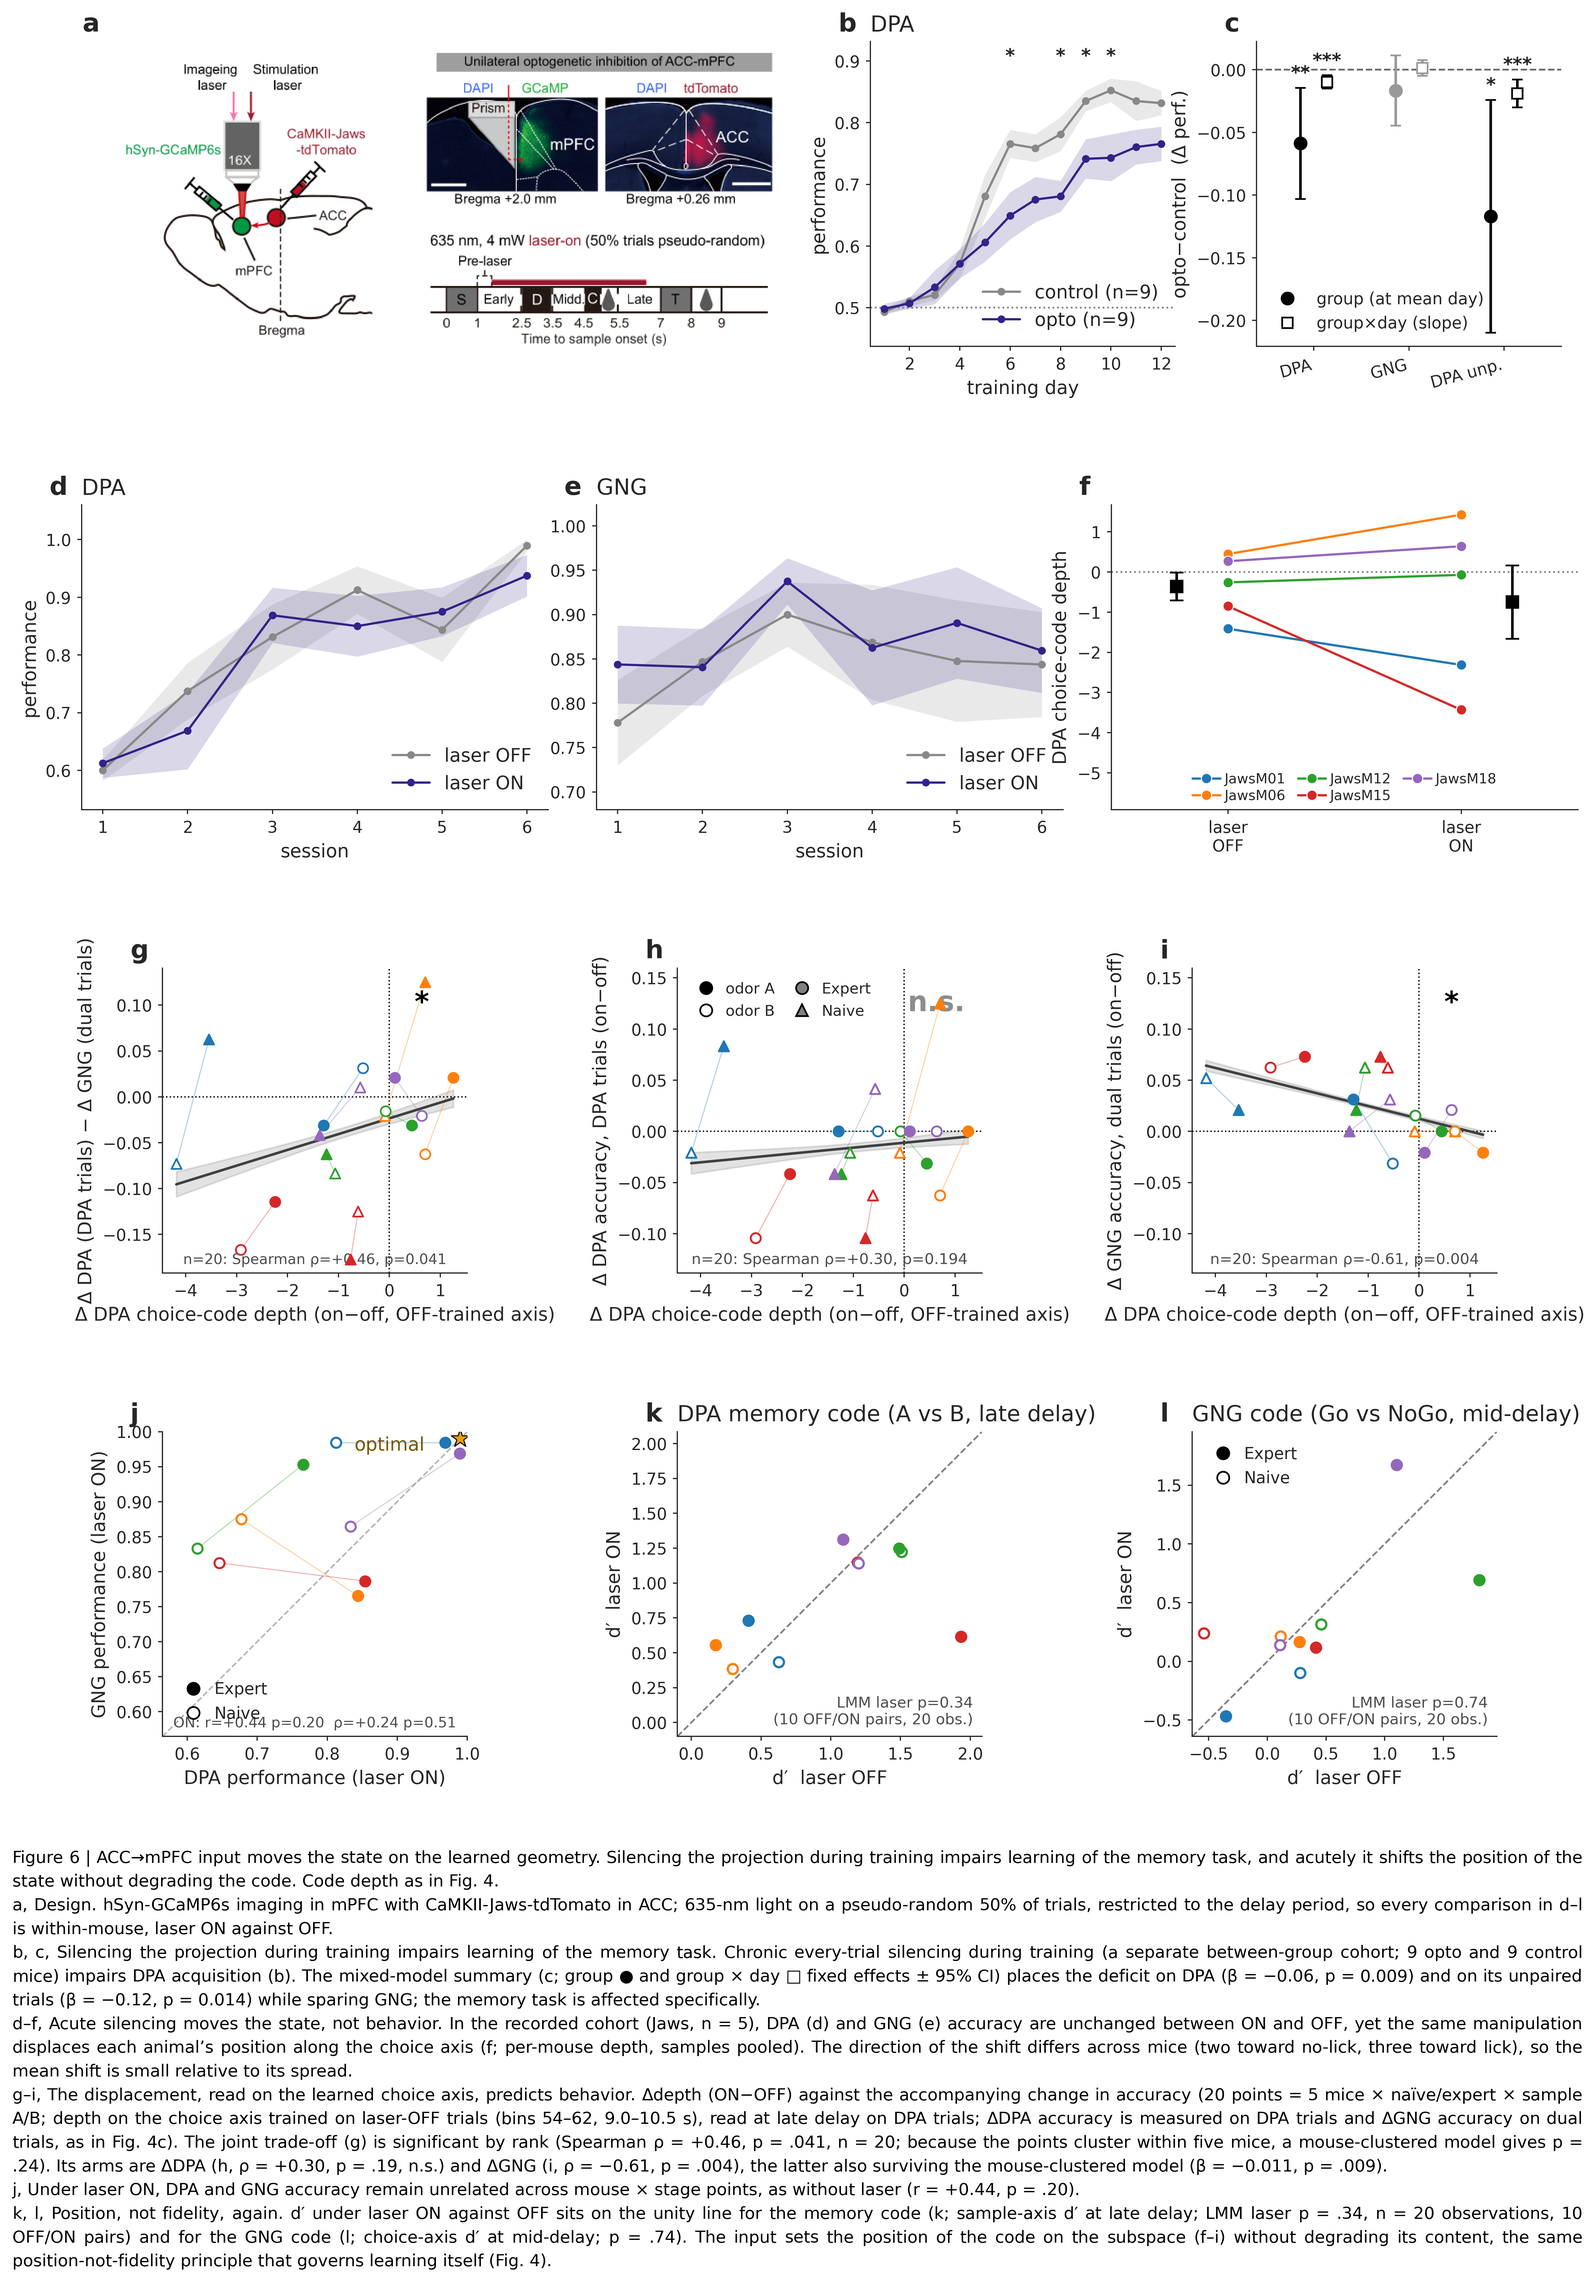
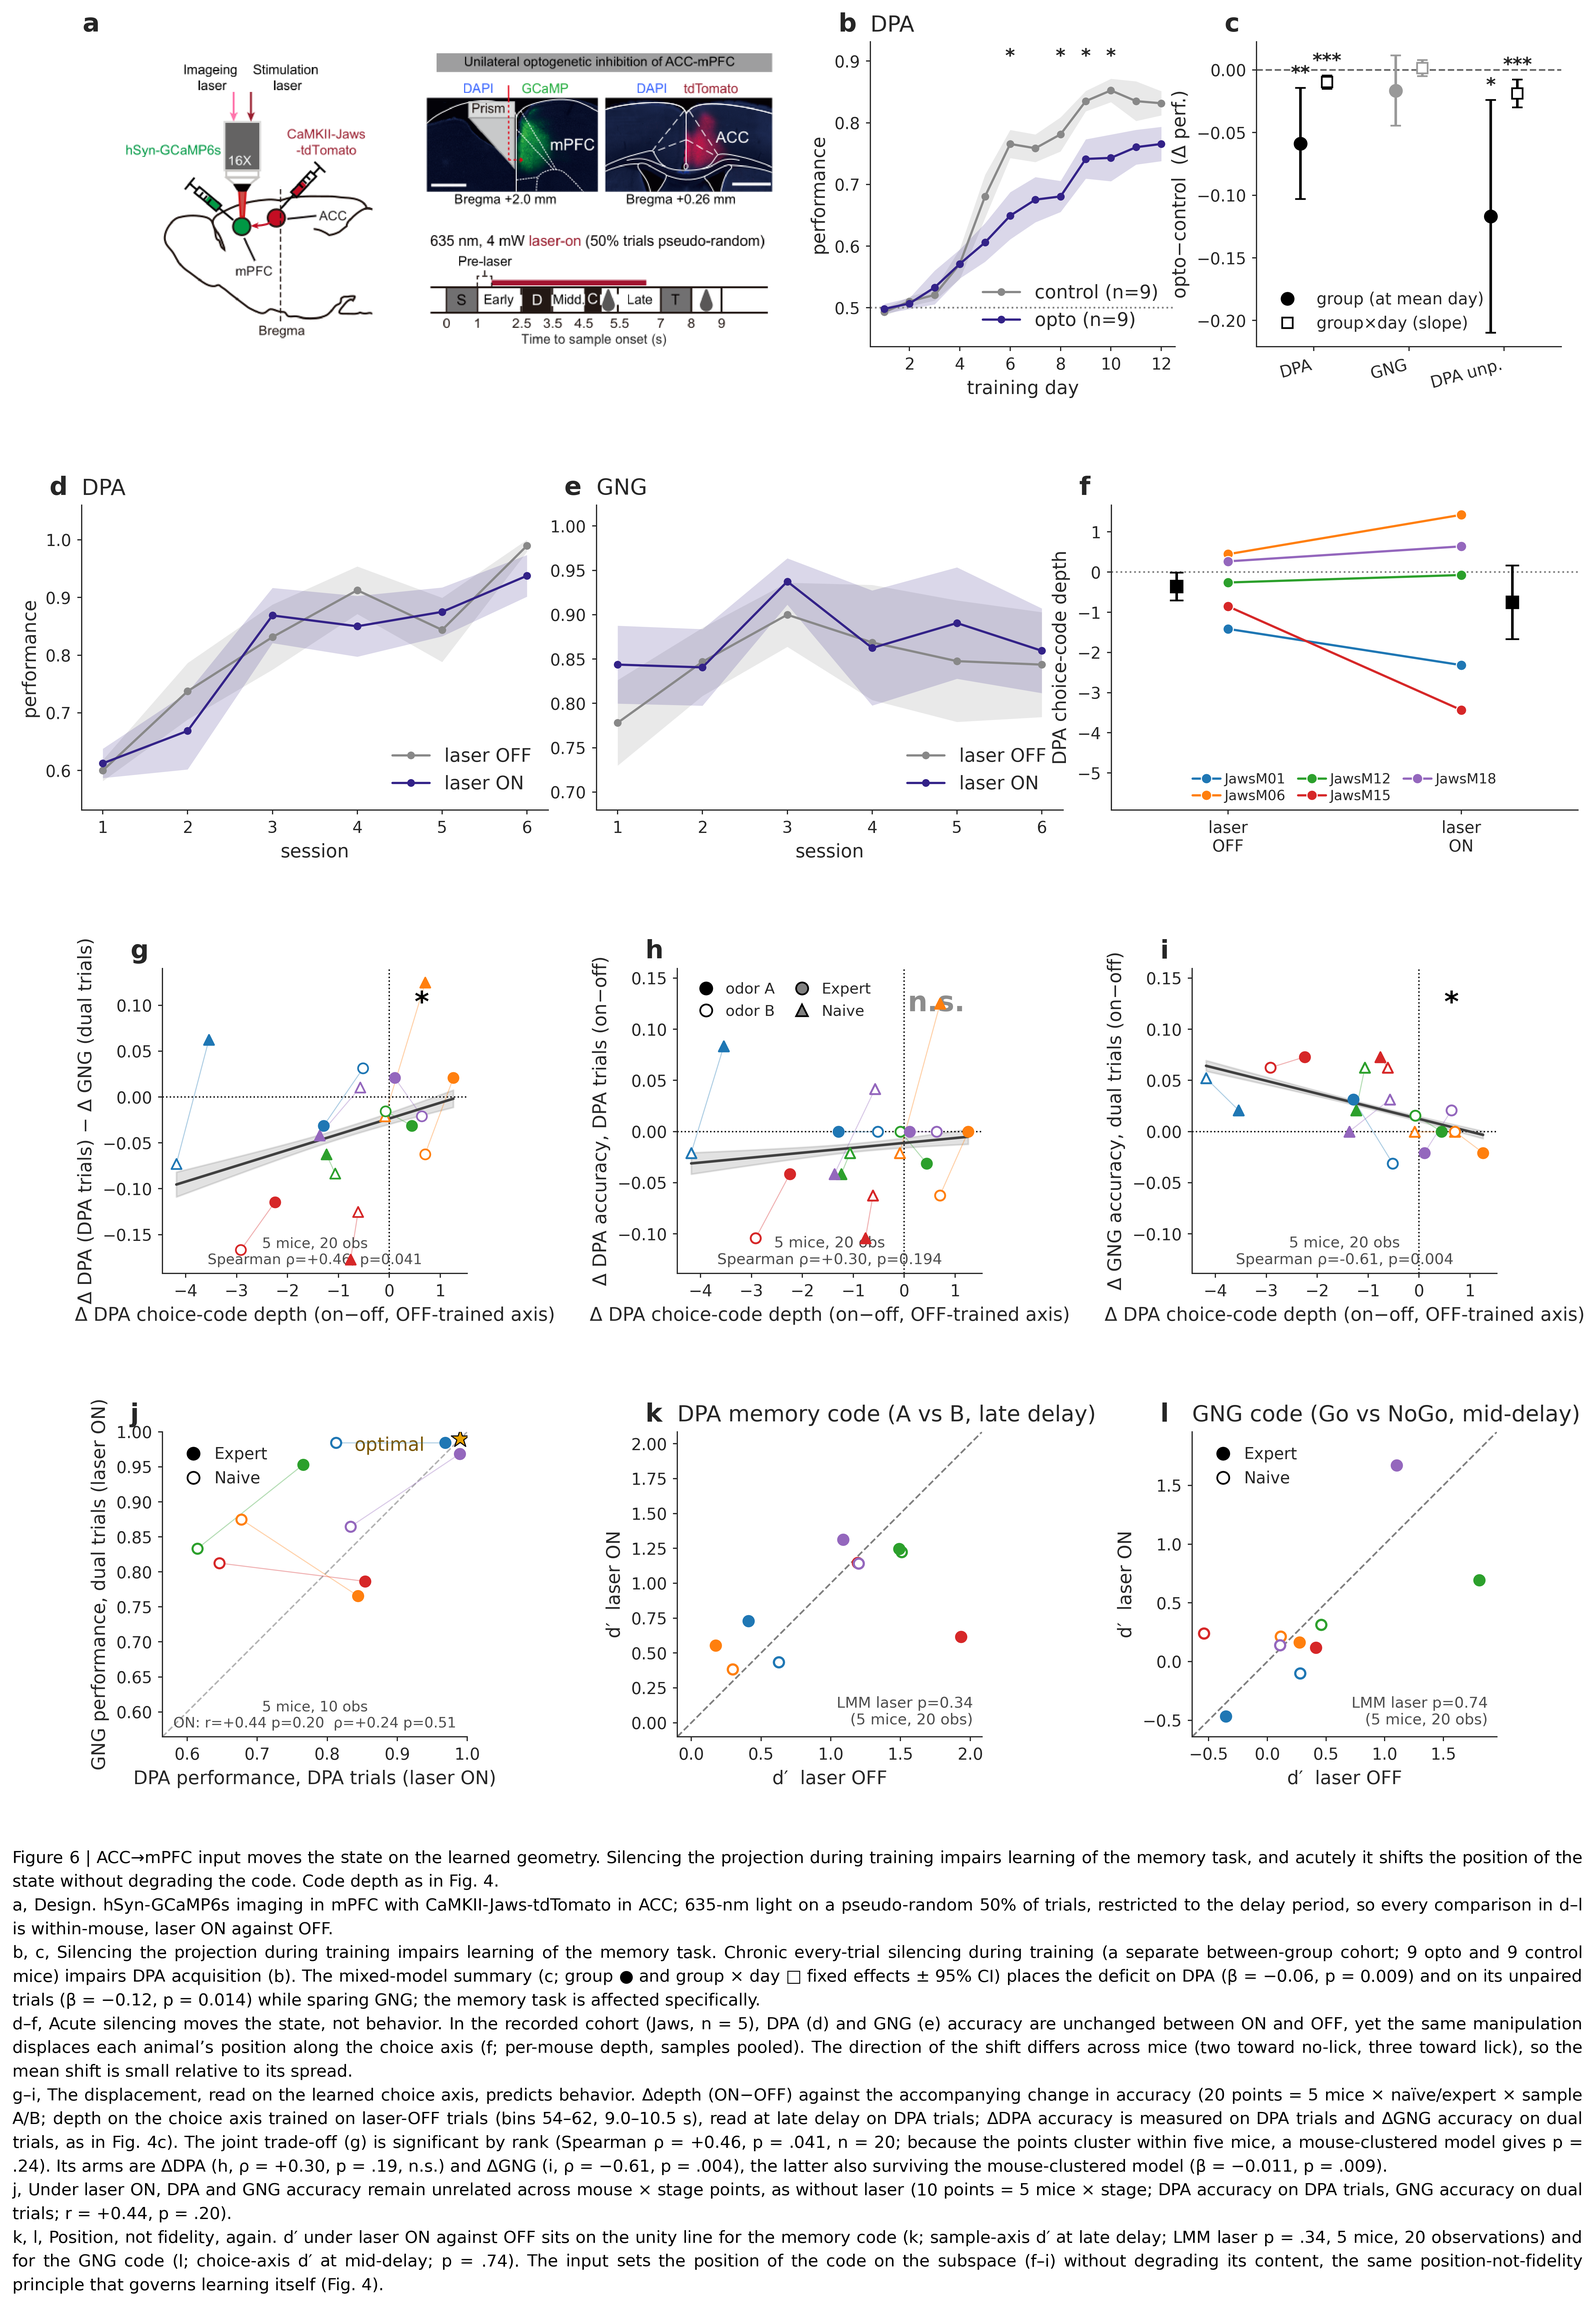
Fig 6 j: name its trial sets; one n-annotation shape across Figs 4 and 6
Panel j is 10 points (5 Jaws mice x 2 stages), laser-ON trials only: DPA performance on DPA trials
against GNG performance on dual trials. Labels and caption say so, and its legend moved to upper left
to clear the now two-line stat block.

n annotations use one shape everywhere: name the unit, add the observations only when the points are
nested in mice — '9 mice' (Fig 4c, retiring 'per-mouse (n=9)'), '5 mice, 20 obs' (Fig 6 g-i), '5 mice,
10 obs' (Fig 6 j), '(5 mice, 20 obs)' under the LMM p in Fig 6 k/l (retiring '10 OFF/ON pairs, 20 obs.'),
and 'mixed model (9 mice, 36 obs)' unchanged in Fig 4b. The k/l legend wording follows in the draft.
No statistic changed. Figs 4 and 6 re-rendered and re-exported; artifacts republished.

Claude-Session: https://claude.ai/code/session_01PzGzWMKHPqqyp4poHedntF

diff --git a/overlaps/fig_behavior_opto_main.py b/overlaps/fig_behavior_opto_main.py
@@ -673,7 +673,7 @@ for ax, key, ylab, msg in [
     r_p, p_p = pearsonr(xdep[ok], yv[ok]); rho, ps = spearmanr(xdep[ok], yv[ok])
     _b, _p, _nm, _no = _gi_lmm(key)                 # mouse-respecting LMM — logged caveat, NOT drawn
     print(f'  {key}: corr r={r_p:+.2f} p={p_p:.3f} ρ={rho:+.2f} p={ps:.3f}  |  LMM β={_b:+.3f} p={_p:.3f} ({_nm}m {_no}obs)')
-    ax.text(0.5, 0.02, f'n={ok.sum()}: Spearman ρ={rho:+.2f}, p={ps:.3f}',   # Spearman only (Leon 2026-09-08)
+    ax.text(0.5, 0.02, f'{len(JAWS)} mice, {ok.sum()} obs\nSpearman ρ={rho:+.2f}, p={ps:.3f}',   # Spearman only; unit named as in Fig 4 (Leon)
             transform=ax.transAxes, ha='center', va='bottom', fontsize=PS*6.5, color='0.3')
     ax.text(0.85, 0.93, '*' if ps < 0.05 else 'n.s.', transform=ax.transAxes, ha='center',        # verdict = Spearman (Leon 2026-09-08); clustered model in the legend
             va='top', fontsize=PS*12, fontweight='bold', color='k' if ps < 0.05 else '0.55')
@@ -771,7 +771,7 @@ _ok = ~(np.isnan(_xdep) | np.isnan(_ytr))
 _rp, _pp = pearsonr(_xdep[_ok], _ytr[_ok]); _rs, _ps = spearmanr(_xdep[_ok], _ytr[_ok])
 _gb, _gp, _gnm, _gno = _gi_lmm('trade')          # mouse-respecting LMM — logged caveat, NOT drawn
 print(f'  trade-off: corr r={_rp:+.2f} p={_pp:.3f} ρ={_rs:+.2f} p={_ps:.3f}  |  LMM β={_gb:+.3f} p={_gp:.3f} ({_gnm}m {_gno}obs)')
-axL.text(0.5, 0.02, f'n={_ok.sum()}: Spearman ρ={_rs:+.2f}, p={_ps:.3f}',   # Spearman only (Leon 2026-09-08)
+axL.text(0.5, 0.02, f'{len(JAWS)} mice, {_ok.sum()} obs\nSpearman ρ={_rs:+.2f}, p={_ps:.3f}',   # Spearman only; unit named as in Fig 4 (Leon)
          transform=axL.transAxes, ha='center', va='bottom', fontsize=PS*6.2, color='0.3')
 axL.text(0.85, 0.93, '*' if _ps < 0.05 else 'n.s.', transform=axL.transAxes, ha='center',        # verdict = Spearman (Leon 2026-09-08); clustered model in the legend
          va='top', fontsize=PS*12, fontweight='bold', color='k' if _ps < 0.05 else '0.55')
@@ -794,7 +794,7 @@ def _dprime_scatter(ax, dfw, lmm, title):
     ax.set_xlim(lo, hi); ax.set_ylim(lo, hi); ax.set_box_aspect(1)
     ax.set_xlabel("d′  laser OFF"); ax.set_ylabel("d′  laser ON")
     ax.set_title(title, loc='left', fontsize=TITLE_FS)
-    ax.text(0.97, 0.03, f'LMM laser p={lmm[1]:.2f}\n(10 OFF/ON pairs, 20 obs.)', transform=ax.transAxes,
+    ax.text(0.97, 0.03, f'LMM laser p={lmm[1]:.2f}\n({len(JAWS)} mice, {2 * len(dfw)} obs)', transform=ax.transAxes,
             ha='right', va='bottom', fontsize=PS*6.5, color='0.3')
 
 
@@ -835,13 +835,14 @@ if not POSTER:
         fc = MOUSE_COLOR[m] if st == 'Expert' else 'w'       # Expert filled / Naive open
         axBal.scatter(xd, yd, marker='o', s=34, facecolors=fc, edgecolors=MOUSE_COLOR[m], lw=1.2, zorder=5)
     _brp, _bpp = pearsonr(_bx[_bok], _by[_bok]); _brs, _bps = spearmanr(_bx[_bok], _by[_bok])
-    axBal.text(0.5, 0.02, f'ON: r={_brp:+.2f} p={_bpp:.2f}  ρ={_brs:+.2f} p={_bps:.2f}',
+    axBal.text(0.5, 0.02, f'{len(JAWS)} mice, {int(_bok.sum())} obs\nON: r={_brp:+.2f} p={_bpp:.2f}  ρ={_brs:+.2f} p={_bps:.2f}',
                transform=axBal.transAxes, ha='center', va='bottom', fontsize=PS*6.2, color='0.3')
     axBal.set_xlim(_blim); axBal.set_ylim(_blim); axBal.set_box_aspect(1)
-    axBal.set_xlabel('DPA performance (laser ON)'); axBal.set_ylabel('GNG performance (laser ON)')
+    axBal.set_xlabel('DPA performance, DPA trials (laser ON)')      # trial sets named as in g–i (Leon 2026-09-09)
+    axBal.set_ylabel('GNG performance, dual trials (laser ON)')
     axBal.legend(handles=[mlines.Line2D([0], [0], marker='o', color='k', mfc='k', ls='none', ms=7, label='Expert'),
                           mlines.Line2D([0], [0], marker='o', color='k', mfc='w', ls='none', ms=7, label='Naive')],
-                 frameon=False, fontsize=PS*7, loc='lower left', handletextpad=0.3)
+                 frameon=False, fontsize=PS*7, loc='upper left', handletextpad=0.3)   # clear of the 2-line stat block
 
 
 # ── panel letters + row banners ───────────────────────────────────────────────
@@ -890,10 +891,11 @@ if not POSTER:
         '(Spearman ρ = +0.46, p = .041, n = 20; because the points cluster within five mice, a mouse-clustered model gives p = .24). '
         'Its arms are ΔDPA (h, ρ = +0.30, p = .19, n.s.) and ΔGNG (i, ρ = −0.61, p = .004), the latter also surviving the mouse-clustered model '
         '(β = −0.011, p = .009).',
-        'j, Under laser ON, DPA and GNG accuracy remain unrelated across mouse × stage points, as without laser (r = +0.44, p = .20).',
+        'j, Under laser ON, DPA and GNG accuracy remain unrelated across mouse × stage points, as without laser '
+        '(10 points = 5 mice × stage; DPA accuracy on DPA trials, GNG accuracy on dual trials; r = +0.44, p = .20).',
         'k, l, Position, not fidelity, again. d′ under laser ON against OFF sits on the unity line '
-        'for the memory code (k; sample-axis d′ at late delay; LMM laser p = .34, n = 20 '
-        'observations, 10 OFF/ON pairs) and for the GNG code (l; choice-axis d′ at mid-delay; p = .74). The input sets '
+        'for the memory code (k; sample-axis d′ at late delay; LMM laser p = .34, 5 mice, 20 '
+        'observations) and for the GNG code (l; choice-axis d′ at mid-delay; p = .74). The input sets '
         'the position of the code on the subspace (f–i) without degrading its content, the same '
         'position-not-fidelity principle that governs learning itself (Fig. 4).',
     ]

diff --git a/overlaps/fig_overlaps_main_native.py b/overlaps/fig_overlaps_main_native.py
@@ -260,7 +260,7 @@ if __name__ == '__main__':
         ax.axhline(0, ls=':', color='k', lw=0.7); ax.axvline(0, ls=':', color='k', lw=0.7)
         ax.set_ylim(ylimC)
         sig = pv < 0.05
-        ax.text(0.03, 0.03, f'per-mouse (n={n_mice})\nSpearman ρ={rho:+.2f}, p={pv:.3f}',
+        ax.text(0.03, 0.03, f'{n_mice} mice\nSpearman ρ={rho:+.2f}, p={pv:.3f}',   # unit named, as in b (Leon 2026-09-09)
                 transform=ax.transAxes, ha='left', va='bottom', fontsize=PS*6.5, color='0.3')
         ax.text(0.80, 0.94, '*' if sig else 'n.s.', transform=ax.transAxes, ha='center', va='top',
                 fontsize=PS*12 if sig else 8, fontweight='bold', color='k' if sig else '0.55')

diff --git a/docs/paper/results_draft.md b/docs/paper/results_draft.md
@@ -1228,12 +1228,10 @@ g–i, The displacement, read on the learned choice axis, predicts behavior. Δd
 against the accompanying change in accuracy (20 points = 5 mice × naïve/expert × sample A/B;
 depth on the choice axis trained on laser-OFF trials (bins 54–62, 9.0–10.5 s), read at late delay on DPA trials; ΔDPA accuracy is measured on DPA trials and ΔGNG accuracy on dual trials, as in Fig. 4c). The joint trade-off (g) is significant by rank (Spearman ρ = +0.46, p = .041, n = 20; because the points cluster within five mice, a mouse-clustered model gives p = .24). Its arms are ΔDPA (h, ρ = +0.30, p = .19, n.s.) and ΔGNG (i, ρ = −0.61, p = .004), the latter also surviving the mouse-clustered model (β = −0.011, p = .009).
 
-j, Under laser ON, DPA and GNG accuracy remain unrelated across mouse × stage points, as
-without laser (r = +0.44, p = .20).
+j, Under laser ON, DPA and GNG accuracy remain unrelated across mouse × stage points, as without laser (10 points = 5 mice × stage; DPA accuracy on DPA trials, GNG accuracy on dual trials; r = +0.44, p = .20).
 
 k, l, Position, not fidelity, again. d′ under laser ON against OFF sits on the unity line for
-the memory code (k; sample-axis d′ at late delay; LMM laser p = .34, n = 20 observations, 10
-OFF/ON pairs) and for the GNG code (l; choice-axis d′ at mid-delay; p = .74). The input sets
+the memory code (k; sample-axis d′ at late delay; LMM laser p = .34, 5 mice, 20 observations) and for the GNG code (l; choice-axis d′ at mid-delay; p = .74). The input sets
 the position of the code on the subspace (f–i) without degrading its content, the same
 position-not-fidelity principle that governs learning itself (Fig. 4).
 
